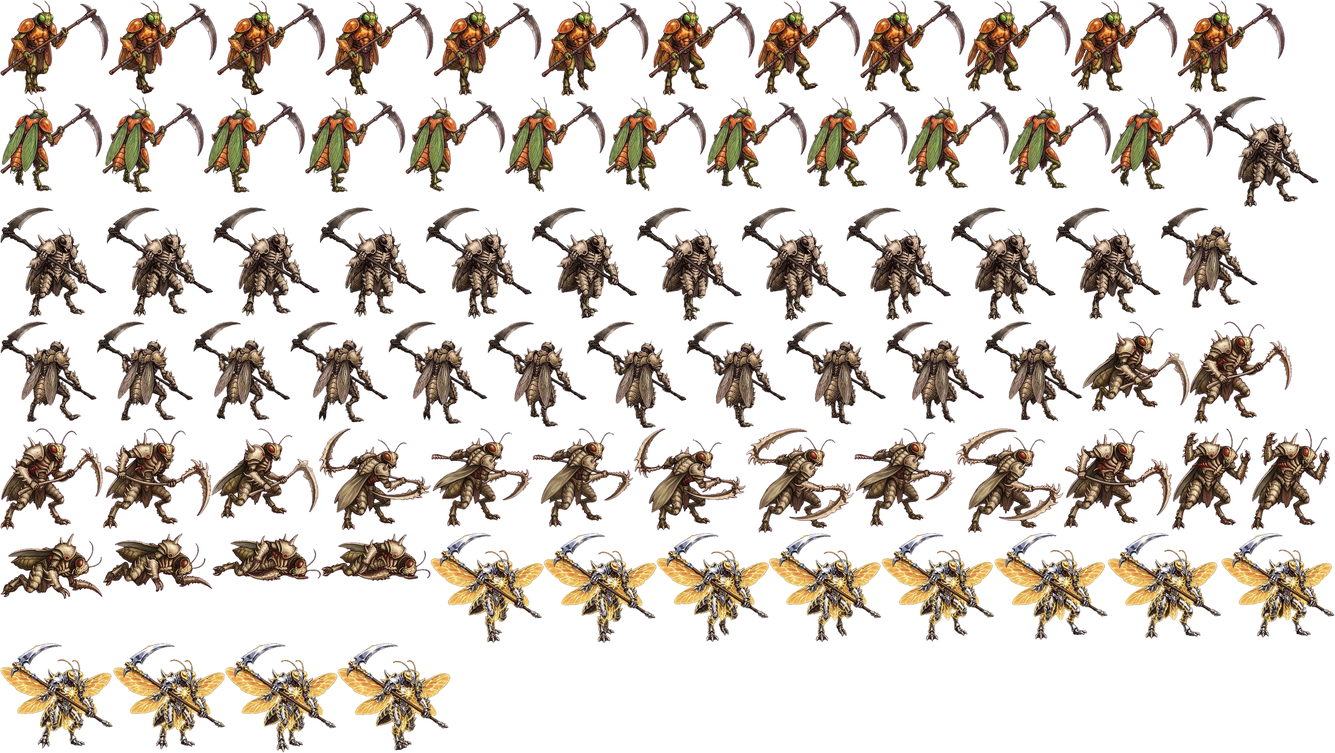
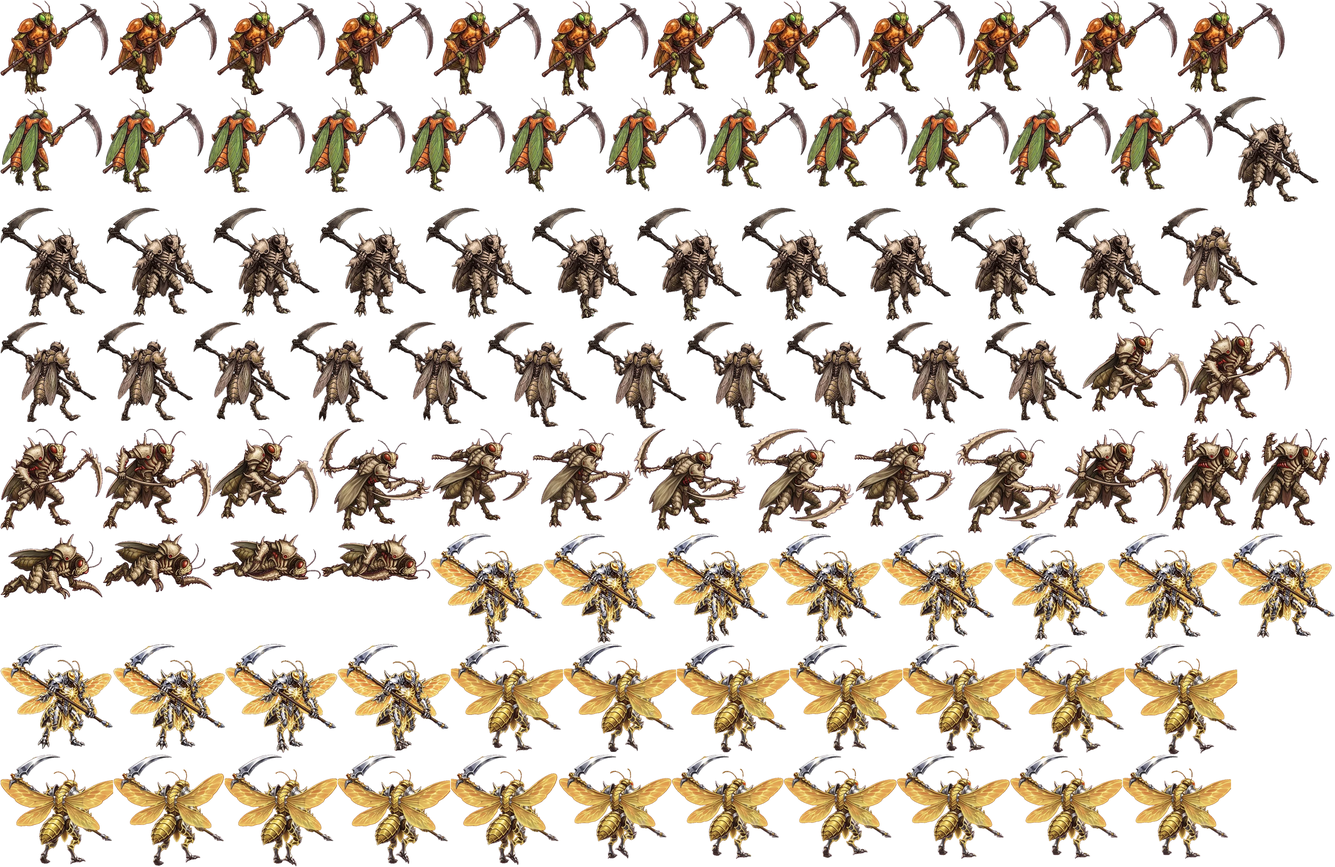
v0.31: caminata de espalda del guerrero dorado
Claude-Session: https://claude.ai/code/session_01FUUVKWXzdgKxM2CPUEArwP

diff --git a/index.html b/index.html
@@ -729,7 +729,7 @@ button.icon svg,.bagtab svg{width:24px;height:24px;fill:none;stroke:currentColor
 (() => {
 'use strict';
 /* =====================================================================
-   QUITINA v0.30 — RPG de acción con insectos, mundo abierto (región I: Raíces podridas)
+   QUITINA v0.31 — RPG de acción con insectos, mundo abierto (región I: Raíces podridas)
    ===================================================================== */
 
 /* ---------- Integración con portales (Poki / CrazyGames) ----------
@@ -1308,7 +1308,7 @@ function drawBladeTrail(g,P){const hs=P.bladeHist;if(!hs||!hs.length)return;cons
    Atlas armado con tools/armar_mantis_sets.py desde videos de Flow (caminata de frente y espalda) y hojas de Nano Banana.
    Lo que falta en un set se anima por código sobre su caminata (ataques, golpe, muerte).
    Los sets sin arte propio usan el dibujo de otro set con un filtro de color. */
-const MS={meta:{"ref":250,"sets":{"ambar":{"walkF":[[2,2,329,289,110,288],[333,2,330,285,110,284],[665,2,329,289,110,288],[996,2,329,290,110,289],[1327,2,328,290,110,289],[1657,2,326,292,110,291],[1985,2,323,290,110,289],[2310,2,320,287,110,286],[2632,2,319,280,110,279],[2953,2,321,278,110,277],[3276,2,324,278,110,277],[3602,2,327,281,110,280]],"walkB":[[2,296,310,289,126,288],[314,296,309,293,126,292],[625,296,307,294,126,293],[934,296,305,293,126,292],[1241,296,303,290,126,289],[1546,296,305,292,126,291],[1853,296,306,289,126,288],[2161,296,306,282,126,281],[2469,296,306,276,126,275],[2777,296,308,280,126,279],[3087,296,310,281,126,280],[3399,296,310,284,126,283]]},"ciempies":{"walkF":[[3711,296,321,338,134,337],[2,636,323,334,134,333],[327,636,324,333,134,332],[653,636,324,332,134,331],[979,636,323,334,134,333],[1304,636,322,340,134,339],[1628,636,320,339,134,338],[1950,636,318,347,134,346],[2270,636,318,345,134,344],[2590,636,318,344,134,343],[2910,636,318,343,134,342],[3230,636,319,342,134,341]],"walkB":[[3551,636,295,306,189,305],[2,985,293,306,189,305],[297,985,293,302,189,301],[592,985,295,300,189,299],[889,985,298,307,189,306],[1189,985,301,312,189,311],[1492,985,302,321,189,320],[1796,985,303,325,189,324],[2101,985,303,323,189,322],[2406,985,303,314,189,313],[2711,985,299,310,189,309],[3012,985,297,305,189,304]],"atk1":[[3311,985,326,275,50,274],[3639,985,311,312,34,311],[2,1312,312,310,23,309],[316,1312,329,307,23,306]],"atk2":[[647,1312,326,275,50,274],[975,1312,342,311,90,310],[1319,1312,308,300,68,299],[1629,1312,307,302,69,301]],"atk3":[[1938,1312,342,311,90,310],[2282,1312,329,319,61,318],[2613,1312,308,300,68,299],[2923,1312,329,319,61,318],[3254,1312,329,304,24,303]],"hit":[[3585,1312,240,310,21,309],[3827,1312,240,310,21,309]],"death":[[2,1633,311,200,196,199],[315,1633,334,178,169,177],[651,1633,330,146,176,145],[983,1633,333,146,177,145]]},"dorado":{"walkF":[[1318,1633,344,335,165,334],[1664,1633,343,335,165,334],[2009,1633,342,332,165,331],[2353,1633,342,332,165,331],[2697,1633,343,330,165,329],[3042,1633,345,325,165,324],[3389,1633,345,322,165,321],[3736,1633,345,319,165,318],[2,1970,343,321,165,320],[347,1970,341,324,165,323],[690,1970,341,333,165,332],[1033,1970,344,327,165,326]]}}},img:new Image(),ok:false,data:null,blade:{}},MS_H=104; // alto del cuerpo en el mundo (adulta)
+const MS={meta:{"ref":250,"sets":{"ambar":{"walkF":[[2,2,329,289,110,288],[333,2,330,285,110,284],[665,2,329,289,110,288],[996,2,329,290,110,289],[1327,2,328,290,110,289],[1657,2,326,292,110,291],[1985,2,323,290,110,289],[2310,2,320,287,110,286],[2632,2,319,280,110,279],[2953,2,321,278,110,277],[3276,2,324,278,110,277],[3602,2,327,281,110,280]],"walkB":[[2,296,310,289,126,288],[314,296,309,293,126,292],[625,296,307,294,126,293],[934,296,305,293,126,292],[1241,296,303,290,126,289],[1546,296,305,292,126,291],[1853,296,306,289,126,288],[2161,296,306,282,126,281],[2469,296,306,276,126,275],[2777,296,308,280,126,279],[3087,296,310,281,126,280],[3399,296,310,284,126,283]]},"ciempies":{"walkF":[[3711,296,321,338,134,337],[2,636,323,334,134,333],[327,636,324,333,134,332],[653,636,324,332,134,331],[979,636,323,334,134,333],[1304,636,322,340,134,339],[1628,636,320,339,134,338],[1950,636,318,347,134,346],[2270,636,318,345,134,344],[2590,636,318,344,134,343],[2910,636,318,343,134,342],[3230,636,319,342,134,341]],"walkB":[[3551,636,295,306,189,305],[2,985,293,306,189,305],[297,985,293,302,189,301],[592,985,295,300,189,299],[889,985,298,307,189,306],[1189,985,301,312,189,311],[1492,985,302,321,189,320],[1796,985,303,325,189,324],[2101,985,303,323,189,322],[2406,985,303,314,189,313],[2711,985,299,310,189,309],[3012,985,297,305,189,304]],"atk1":[[3311,985,326,275,50,274],[3639,985,311,312,34,311],[2,1312,312,310,23,309],[316,1312,329,307,23,306]],"atk2":[[647,1312,326,275,50,274],[975,1312,342,311,90,310],[1319,1312,308,300,68,299],[1629,1312,307,302,69,301]],"atk3":[[1938,1312,342,311,90,310],[2282,1312,329,319,61,318],[2613,1312,308,300,68,299],[2923,1312,329,319,61,318],[3254,1312,329,304,24,303]],"hit":[[3585,1312,240,310,21,309],[3827,1312,240,310,21,309]],"death":[[2,1633,311,200,196,199],[315,1633,334,178,169,177],[651,1633,330,146,176,145],[983,1633,333,146,177,145]]},"dorado":{"walkF":[[1318,1633,344,335,165,334],[1664,1633,343,335,165,334],[2009,1633,342,332,165,331],[2353,1633,342,332,165,331],[2697,1633,343,330,165,329],[3042,1633,345,325,165,324],[3389,1633,345,322,165,321],[3736,1633,345,319,165,318],[2,1970,343,321,165,320],[347,1970,341,324,165,323],[690,1970,341,333,165,332],[1033,1970,344,327,165,326]],"walkB":[[1379,1970,343,329,171,328],[1724,1970,344,330,171,329],[2070,1970,344,331,171,330],[2416,1970,344,326,171,325],[2762,1970,344,330,171,329],[3108,1970,331,332,171,331],[3441,1970,343,337,171,336],[2,2309,344,335,171,334],[348,2309,337,339,171,338],[687,2309,344,341,171,340],[1033,2309,344,334,171,333],[1379,2309,329,337,171,336],[1710,2309,343,318,171,317],[2055,2309,341,318,171,317],[2398,2309,344,315,171,314],[2744,2309,344,318,171,317],[3090,2309,342,318,171,317],[3434,2309,331,318,171,317]]}}},img:new Image(),ok:false,data:null,blade:{}},MS_H=104; // alto del cuerpo en el mundo (adulta)
 MS.img.onload=()=>{MS.ok=true;try{const cv=document.createElement('canvas');cv.width=MS.img.width;cv.height=MS.img.height;const g=cv.getContext('2d',{willReadFrequently:true});g.drawImage(MS.img,0,0);MS.data=g.getImageData(0,0,cv.width,cv.height);}catch(e){MS.data=null;}};MS.img.src='assets/mantis-sets.webp';
 const MS_LOOK={ // set -> [arte, filtro]
   ambar:['ambar','none'],ciempies:['ciempies','none'],

diff --git a/sw.js b/sw.js
@@ -1,5 +1,5 @@
 /* Quitina: guarda el juego en el teléfono. Primero intenta la red (para recibir actualizaciones) y si no hay conexión usa lo guardado. */
-const CACHE = 'quitina-v30';
+const CACHE = 'quitina-v31';
 const CORE = ['./', 'index.html', 'manifest.webmanifest', 'assets/mantis-arte.jpg', 'assets/mantis-sprites.webp', 'assets/mantis-sprites.json', 'icons/icon-192.png', 'icons/icon-512.png', 'assets/iconos.webp', 'assets/mantis-sets.webp'];
 self.addEventListener('install', e => { e.waitUntil(caches.open(CACHE).then(c => c.addAll(CORE)).then(() => self.skipWaiting())); });
 self.addEventListener('activate', e => { e.waitUntil(caches.keys().then(ks => Promise.all(ks.filter(k => k !== CACHE).map(k => caches.delete(k)))).then(() => self.clients.claim())); });

diff --git a/tools/armar_mantis_sets.py b/tools/armar_mantis_sets.py
@@ -39,8 +39,12 @@ HOJA = ("hojas/ciempies-combate.jpg", "ciempies", 6, 5, [
     ("death", [(4, 2), (4, 3), (4, 4), (4, 5)]),
 ])
 CUADROS_LOOP = 12
+# Hojas en grilla con bordes (cuadros en orden de lectura): (archivo, set, anim, xs, ys)
+GRILLAS = [("hojas/dorado-espalda.jpg", "dorado", "walkB",
+            [(7, 457), (463, 915), (921, 1373), (1379, 1831), (1837, 2288), (2295, 2730)],
+            [(1, 502), (508, 1009), (1016, 1483)])]
 # Ajuste fino a ojo (la medición automática se confunde con el mango de la guadaña cruzando el cuerpo)
-AJUSTE = {("dorado", "walkF"): 1.3, ("ciempies", "walkF"): 1.32, ("ciempies", "walkB"): 1.0,
+AJUSTE = {("dorado", "walkF"): 1.3, ("dorado", "walkB"): 1.3, ("ciempies", "walkF"): 1.32, ("ciempies", "walkB"): 1.0,
           **{("ciempies", a): 1.24 for a in ("atk1", "atk2", "atk3", "hit", "death")}}
 
 
@@ -137,6 +141,9 @@ def main():
                 cache[(fi, co)] = recortar(a[fi * H // nf:(fi + 1) * H // nf, co * W // nc:(co + 1) * W // nc])
             out.append(cache[(fi, co)])
         crudos[st][an] = out
+    for ruta_g, st_g, an_g, xs, ys in GRILLAS:
+        a_g = np.asarray(Image.open(ruta_g).convert("RGB")).astype(float)
+        crudos[st_g][an_g] = [recortar(a_g[y0 + 4:y1 - 4, x0 + 4:x1 - 4]) for (y0, y1) in ys for (x0, x1) in xs]
     # escala: la caminata de frente de cada set define el alto del cuerpo
     anims = {}
     for st, d in crudos.items():

diff --git a/README.md b/README.md
@@ -13,7 +13,7 @@ Abre `index.html` en el navegador. No necesita instalación ni servidor. La carp
 
 El juego es una app web instalable (PWA): tiene manifiesto, íconos y funciona sin conexión una vez abierto. Para instalarlo tiene que estar publicado en una dirección HTTPS (por ejemplo GitHub Pages). Desde Chrome en Android: abrir la dirección, menú ⋮ → **Instalar app** (o *Agregar a pantalla principal*). Se abre a pantalla completa y apaisado, sin barra del navegador. Si se juega desde el navegador, al entrar al mundo pide pantalla completa y gira a apaisado cuando el teléfono lo permite.
 
-## Contenido de la versión 0.30
+## Contenido de la versión 0.31
 
 | Sistema | Estado |
 |---|---|
@@ -43,7 +43,7 @@ El juego es una app web instalable (PWA): tiene manifiesto, íconos y funciona s
 | Niebla de guerra | El mapa arranca oscuro y se descubre al recorrerlo (se guarda por criatura). Minimapa y mapa grande muestran santuarios, botín y enemigos solo en lo descubierto (enemigos cercanos). Los viajes solo llevan a lugares ya descubiertos. |
 | Mapas del reino | Ícono de mapa (tecla V): viajar con oro a los 5 santuarios y 5 zonas. Se puede ir desde 3 niveles por debajo del recomendado; si estás por debajo, aparece «(nivel sugerido N)» en rojo. Regiones II–V anunciadas. |
 | Set completo +10 | Dos destellos dorados giran alrededor del cuerpo dejando estela. El arma +10 suma lenguas violetas que giran sobre las guadañas. |
-| Guerrero dorado (+15) | Con arma, casco, coraza y patas en +15 la Mantis cambia de dibujo: armadura de metal espejado y hueso con vetas doradas que brillan y alas doradas translúcidas propias (sacado de un video de Gemini). Por ahora solo tiene caminata de frente; los ataques se animan por código y de espalda usa la misma vista. Con este aspecto no se dibujan las alas de luz del objeto Alas. |
+| Guerrero dorado (+15) | Con arma, casco, coraza y patas en +15 la Mantis cambia de dibujo: armadura de metal espejado y hueso con vetas doradas que brillan y alas doradas translúcidas propias (sacado de un video de Gemini). Tiene caminata de frente (video de Gemini) y de espalda (hoja de 18 cuadros); los ataques se animan por código. Con este aspecto no se dibujan las alas de luz del objeto Alas. |
 | Regalo +15 | Los personajes creados antes de la versión 0.29 reciben una sola vez el set Ciempiés de Hueso completo (arma, casco, coraza, patas y amuleto) en +15, mítico, excelente con las 6 opciones, las 6 propiedades al máximo y Suerte. Llega a la bolsa al entrar al mundo; si está llena, lo más débil pasa al depósito. Ya no está el botón de prueba del menú. |
 | Íconos pintados | Hojas generadas con IA (fondo magenta, 3×2) en `hojas/iconos-*.jpg`; `python3 tools/armar_iconos.py` arma `assets/iconos.webp`. Sets con íconos: Ciempiés de Hueso y Hierro negro, más alas, ámbar, icor, poción y oro (también en el suelo y en los contadores). Los sets sin hoja usan el ícono dibujado. |
 | Equipo montado | El sprite de la Mantis se separa por color y altura en guadañas, cabeza, torso y patas; cada pieza equipada repinta su zona con la paleta del set (Hierro negro acero, Ámbar dorado, Viuda negra rojo oscuro, Ciempiés hueso). Las alas se ven detrás y el amuleto brilla en el pecho. También en la bitácora y la madriguera. Quitina es el aspecto natural. |
